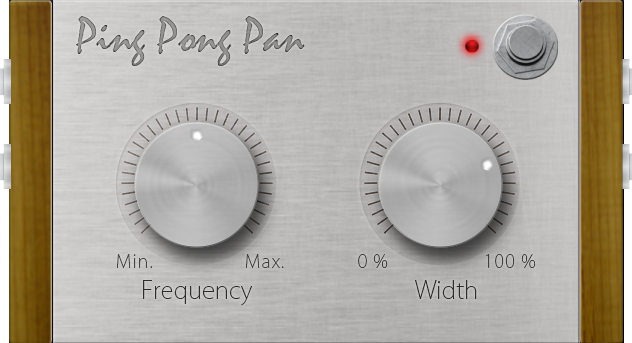
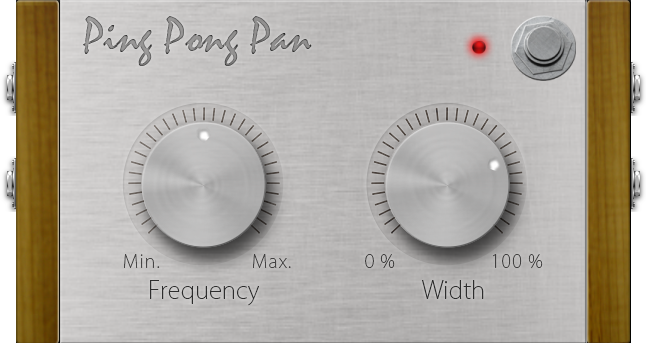
Update modgui

diff --git a/modguis/PingPongPan-modgui.lv2/modgui/stylesheet-ppp.css b/modguis/PingPongPan-modgui.lv2/modgui/stylesheet-ppp.css
@@ -1,0 +1,228 @@
+
+/* STYLES FOR THE BOXY PEDAL */
+
+@import url(/fonts/nexa/stylesheet.css);
+@import url(/fonts/questrial/stylesheet.css);
+
+/* = CONTAINER
+================================================ */
+.mod-pedal-boxy{{{cns}}} {
+    background-position:center center;
+    background-repeat:no-repeat;
+    background-size:230px 431px;
+    height:431px;
+    position:absolute;
+    width:230px;
+    border-radius: 26px;
+}
+
+/* = PLUGIN'S AUTHOR
+================================================ */
+.mod-pedal-boxy{{{cns}}} .mod-plugin-brand {
+    left:0;
+    position:absolute;
+    right:0;
+    text-align:center;
+    text-transform:uppercase;
+    top:160px;
+}
+
+.mod-pedal-boxy{{{cns}}} .mod-plugin-brand h1 {
+    border-color:#000;
+    border-radius:12px;
+    border-style:solid;
+    border-width:4px;
+    display:inline-block;
+    font-family:"Nexa";
+    font-size:32px;
+    padding:3px 9px 0;
+}
+
+/* = PLUGIN'S NAME
+================================================ */
+.mod-pedal-boxy{{{cns}}} .mod-plugin-name {
+    left:30px;
+    overflow:hidden;
+    position:absolute;
+    right:30px;
+    text-align:center;
+    top:340px;
+}
+
+.mod-pedal-boxy{{{cns}}} .mod-plugin-name h1 {
+    font-family:"Questrial";
+    font-size:21px;
+    line-height:1;
+}
+
+/* = LIGHT ON/OFF
+================================================ */
+.mod-pedal-boxy{{{cns}}} .mod-light {
+    background-position:center center;
+    background-repeat:no-repeat;
+    height:32px;
+    left:10px;
+    position:absolute;
+    right:10px;
+    top:235px;
+}
+
+/* = KNOBS
+================================================ */
+.mod-pedal-boxy{{{cns}}} .mod-control-group {
+    margin:20px;
+    position:relative;
+    text-align:center;
+    z-index:30;
+}
+
+.mod-pedal-boxy{{{cns}}} .mod-control-group .mod-knob {
+    overflow:hidden;
+    position:relative;
+}
+
+.mod-pedal-boxy{{{cns}}} .mod-control-group .mod-knob {
+    height:110px;
+}
+
+.mod-pedal-boxy{{{cns}}} .mod-control-group .mod-knob > span.mod-knob-title {
+    bottom:0px;
+    display:block;
+    font-size:11px;
+    font-weight:bold;
+    height:12px;
+    left:0;
+    line-height:1;
+    margin:0;
+    overflow:hidden;
+    padding:0;
+    position:absolute;
+    right:0;
+    text-transform:uppercase;
+}
+
+/* = ENUMERATED LIST
+================================================ */
+.mod-pedal-boxy{{{cns}}} .mod-enumerated-group {
+    height:31px;
+    margin:20px auto 0 !important;
+    position:relative;
+    width:190px;
+    z-index:35;
+}
+
+.mod-pedal-boxy{{{cns}}} .mod-enumerated {
+    background-position:right center;
+    background-repeat:no-repeat;
+    font-size:11px;
+    font-weight:bold;
+    left:0;
+    line-height:2;
+    overflow:hidden;
+    position:absolute;
+    right:0;
+    text-align:left;
+}
+
+.mod-pedal-boxy{{{cns}}} .mod-enumerated .mod-enumerated-selected {
+    background-color:rgba(0,0,0,.3);
+    box-shadow:inset 0 0 4px rgba(0,0,0,.3);
+    border-radius:4px;
+    padding:3px 9px;
+}
+
+.mod-pedal-boxy{{{cns}}} .mod-enumerated .mod-enumerated-selected {
+    border-radius:4px 4px 0 0;
+}
+
+.mod-pedal-boxy{{{cns}}} .mod-enumerated .mod-enumerated-list {
+    display:none;
+    color:#fff;
+}
+
+.mod-pedal-boxy{{{cns}}} .mod-enumerated .mod-enumerated-list {
+    background-color:rgba(0,0,0,.9);
+    display:none;
+    height:115px;
+    overflow:auto;
+    position:relative;
+}
+
+.mod-pedal-boxy{{{cns}}} .mod-enumerated .mod-enumerated-list > div {
+    padding:3px 9px;
+}
+
+.mod-pedal-boxy{{{cns}}} .mod-enumerated .mod-enumerated-list > div:hover {
+    background-color:rgba(255,255,255,.2);
+    cursor:pointer;
+}
+
+/* STYLES FOR THE PLUGIN */
+
+.pingpongpan * {
+    color:black !important;
+}
+.pingpongpan {
+    background-image:url(/resources/background.png{{{ns}}}) !important;
+    background-size:615px 344px;
+    width:615px;
+    height:344px;
+    border-radius: 0;
+}
+.pingpongpan .mod-control-group {
+    width:500px;
+    height:220px;
+}
+.pingpongpan .mod-control-group .mod-knob {
+    height:220px !important;
+}
+.pingpongpan .mod-control-group .mod-knob .mod-knob-image {
+    background-image:url(/resources/knob.png{{{ns}}});
+    background-position:left center;
+    background-repeat:no-repeat;
+    background-size:auto 220px;
+    height:220px;
+    width:220px;
+    margin:0 auto;
+    cursor:pointer;
+    position:relative;
+    overflow:hidden;
+}
+.pingpongpan .mod-control-group .pingpongpan-knob_freq {
+    top:55px;
+    left:58px;
+    position:absolute;
+}
+.pingpongpan .mod-control-group .pingpongpan-knob_width {
+    top:55px;
+    left:302px;
+    position:absolute;
+}
+.pingpongpan .mod-light {
+    top:32px;
+    left:320px;
+}
+.pingpongpan .mod-footswitch {
+    background-image:url(/resources/footswitch.png{{{ns}}});
+    background-position:top center;
+    background-repeat:no-repeat;
+    background-size:auto 132px;
+    top:15px;
+    right:55px;
+    cursor:pointer;
+    height:66px;
+    width: 66px;
+    position:absolute;
+}
+.pingpongpan .mod-footswitch.on {
+    background-position:top center;
+}
+.pingpongpan .mod-footswitch.off {
+    background-position:bottom center;
+}
+.pingpongpan .mod-pedal-input , .pingpongpan .mod-pedal-output {
+    top: 60px;
+}
+.pingpongpan .mod-pedal-input .mod-input , .pingpongpan .mod-pedal-output .mod-output {
+    margin-bottom: 40px !important
+}

diff --git a/modguis/PingPongPan-modgui.lv2/modgui/icon-ppp.html b/modguis/PingPongPan-modgui.lv2/modgui/icon-ppp.html
@@ -1,4 +1,4 @@
-<div class="pingpongpan mod-pedal mod-pedal-boxy ">
+<div class="pingpongpan mod-pedal mod-pedal-boxy{{{cns}}}">
     <div mod-role="drag-handle" class="mod-drag-handle"></div>
 
     <div class="mod-light on" mod-role="bypass-light"></div>
@@ -8,7 +8,7 @@
             <div class="mod-knob-image" mod-role="input-control-port" mod-port-symbol="freq"></div>
         </div>
         <div class="mod-knob pingpongpan-knob_width">
-            <div class="mod-knob-image" mod-role="input-control-port" mod-port-symbol="with"></div>
+            <div class="mod-knob-image" mod-role="input-control-port" mod-port-symbol="width"></div>
         </div>
     </div>
 
@@ -39,70 +39,3 @@
         {{/effect.ports.midi.output}}
     </div>
 </div>
-<style>
-.pingpongpan * {
-    color:black !important;
-}
-.pingpongpan {
-    background-image:url(/resources/background.png{{{ns}}}) !important;
-    background-size:615px 344px;
-    width:615px;
-    height:344px;
-}
-.pingpongpan .mod-control-group {
-    width:500px;
-    height:220px;
-}
-.pingpongpan .mod-control-group .mod-knob {
-    height:220px !important;
-}
-.pingpongpan .mod-control-group .mod-knob .mod-knob-image {
-    background-image:url(/resources/knob.png{{{ns}}});
-    background-position:left center;
-    background-repeat:no-repeat;
-    background-size:auto 220px;
-    height:220px;
-    width:220px;
-    margin:0 auto;
-    cursor:pointer;
-    position:relative;
-    overflow:hidden;
-}
-.pingpongpan .mod-control-group .pingpongpan-knob_freq {
-    top:55px;
-    left:58px;
-    position:absolute;
-}
-.pingpongpan .mod-control-group .pingpongpan-knob_width {
-    top:55px;
-    left:302px;
-    position:absolute;
-}
-.pingpongpan .mod-light {
-    top:32px;
-    left:320px;
-}
-.pingpongpan .mod-footswitch {
-    background-image:url(/resources/footswitch.png{{{ns}}});
-    background-position:top center;
-    background-repeat:no-repeat;
-    background-size:auto 132px;
-    top:15px;
-    left:430px !important;
-    cursor:pointer;
-    height:66px;
-    position:absolute;
-}
-.pingpongpan .mod-footswitch.on {
-    background-position:top center;
-}
-.pingpongpan .mod-footswitch.off {
-    background-position:bottom center;
-}
-.pingpongpan .mod-pedal-input , .pingpongpan .mod-pedal-output {
-    top: 60px;
-}
-.pingpongpan .mod-pedal-input .mod-input , .pingpongpan .mod-pedal-output .mod-output {
-    margin-bottom: 40px !important
-}
-</style>

diff --git a/plugins/PingPongPan/DistrhoPluginPingPongPan.cpp b/plugins/PingPongPan/DistrhoPluginPingPongPan.cpp
@@ -54,7 +54,7 @@ void DistrhoPluginPingPongPan::initParameter(uint32_t index, Parameter& paramete
     case paramWidth:
         parameter.hints      = kParameterIsAutomable;
         parameter.name       = "Width";
-        parameter.symbol     = "with";
+        parameter.symbol     = "width";
         parameter.unit       = "%";
         parameter.ranges.def = 75.0f;
         parameter.ranges.min = 0.0f;
